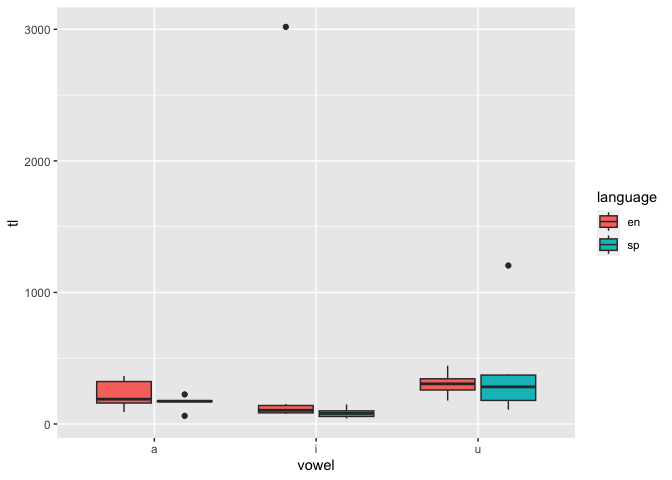
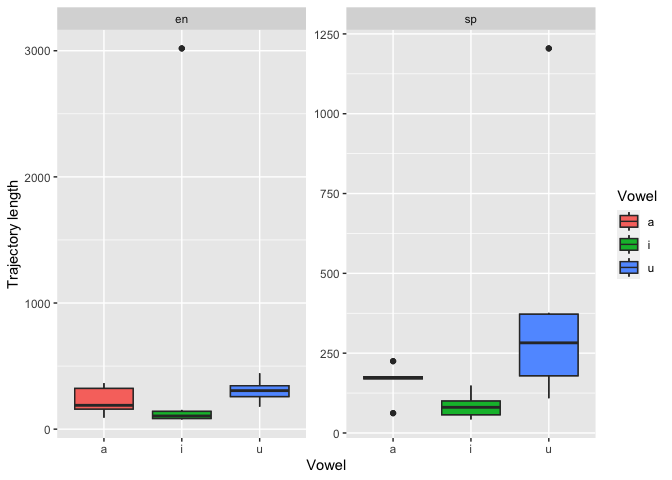
update

diff --git a/README.md b/README.md
@@ -1,5 +1,5 @@
 # Programming assignment 3
-2024-03-29
+2024-03-30
 
     ── Attaching core tidyverse packages ──────────────────────── tidyverse 2.0.0 ──
     ✔ dplyr     1.1.4     ✔ readr     2.1.5
@@ -29,7 +29,7 @@ dat <- read_csv("./data/vowel_data.csv")
 ``` r
 means <- dat %>%
   group_by(vowel, language) %>%
-  summarise(f1 = mean(f1_cent), f1sd = sd(f1_cent), f2 = mean(f2_cent), f2sd = sd(f2_cent), tl = mean(tl), tlsd = sd(tl))
+  summarise(f1_cent_mean = mean(f1_cent), f1_sd = sd(f1_cent), f2_cent_mean = mean(f2_cent), f2_sd = sd(f2_cent), tl_mean = mean(tl), tl_sd = sd(tl))
 ```
 
     `summarise()` has grouped output by 'vowel'. You can override using the
@@ -39,55 +39,40 @@ means <- dat %>%
 # Trajectory length as a function of vowel anf language
 
 dat %>%
-  ggplot(aes(x = vowel, y = tl, fill = language)) +
-  geom_boxplot()
+  ggplot(aes(x = vowel, y = tl, fill = vowel)) +
+  geom_boxplot() +
+  facet_wrap(~ language, scales = "free_y") +
+  geom_boxplot() +
+  labs(x = "Vowel", y = "Trajectory length", fill = "Vowel")
 ```
 
 ![](README_files/figure-commonmark/plots-1.png)
 
 ``` r
+# F1 as a function of vowel and language
+
 dat %>%
-  ggplot(aes(x = language, y = tl, fill = vowel)) +
-  geom_boxplot()
+  ggplot(aes(x = vowel, y = f1_cent, fill = vowel)) +
+  geom_boxplot() +
+  facet_wrap(~ language, scales = "free_y") +
+  geom_boxplot() +
+  labs(x = "Vowel", y = "F1 Cent", fill = "Vowel")
 ```
 
 ![](README_files/figure-commonmark/plots-2.png)
 
 ``` r
-# F1 as a function of vowel and language
-
-dat %>%
-  ggplot(aes(x = vowel, y = f1_cent, fill = language)) +
-  geom_boxplot()
-```
-
-![](README_files/figure-commonmark/plots-3.png)
-
-``` r
-dat %>%
-  ggplot(aes(x = language, y = f1_cent, fill = vowel)) +
-  geom_boxplot()
-```
-
-![](README_files/figure-commonmark/plots-4.png)
-
-``` r
 # F2 as a function of vowel and language
 
 dat %>%
-  ggplot(aes(x = vowel, y = f2_cent, fill = language)) +
-  geom_boxplot()
+  ggplot(aes(x = vowel, y = f2_cent, fill = vowel)) +
+  geom_boxplot() +
+  facet_wrap(~ language, scales = "free_y") +
+  geom_boxplot() +
+  labs(x = "Vowel", y = "F2 Cent", fill = "Vowel")
 ```
 
-![](README_files/figure-commonmark/plots-5.png)
-
-``` r
-dat %>%
-  ggplot(aes(x = language, y = f2_cent, fill = vowel)) +
-  geom_boxplot()
-```
-
-![](README_files/figure-commonmark/plots-6.png)
+![](README_files/figure-commonmark/plots-3.png)
 
 ``` r
 dat_long <- dat %>%
